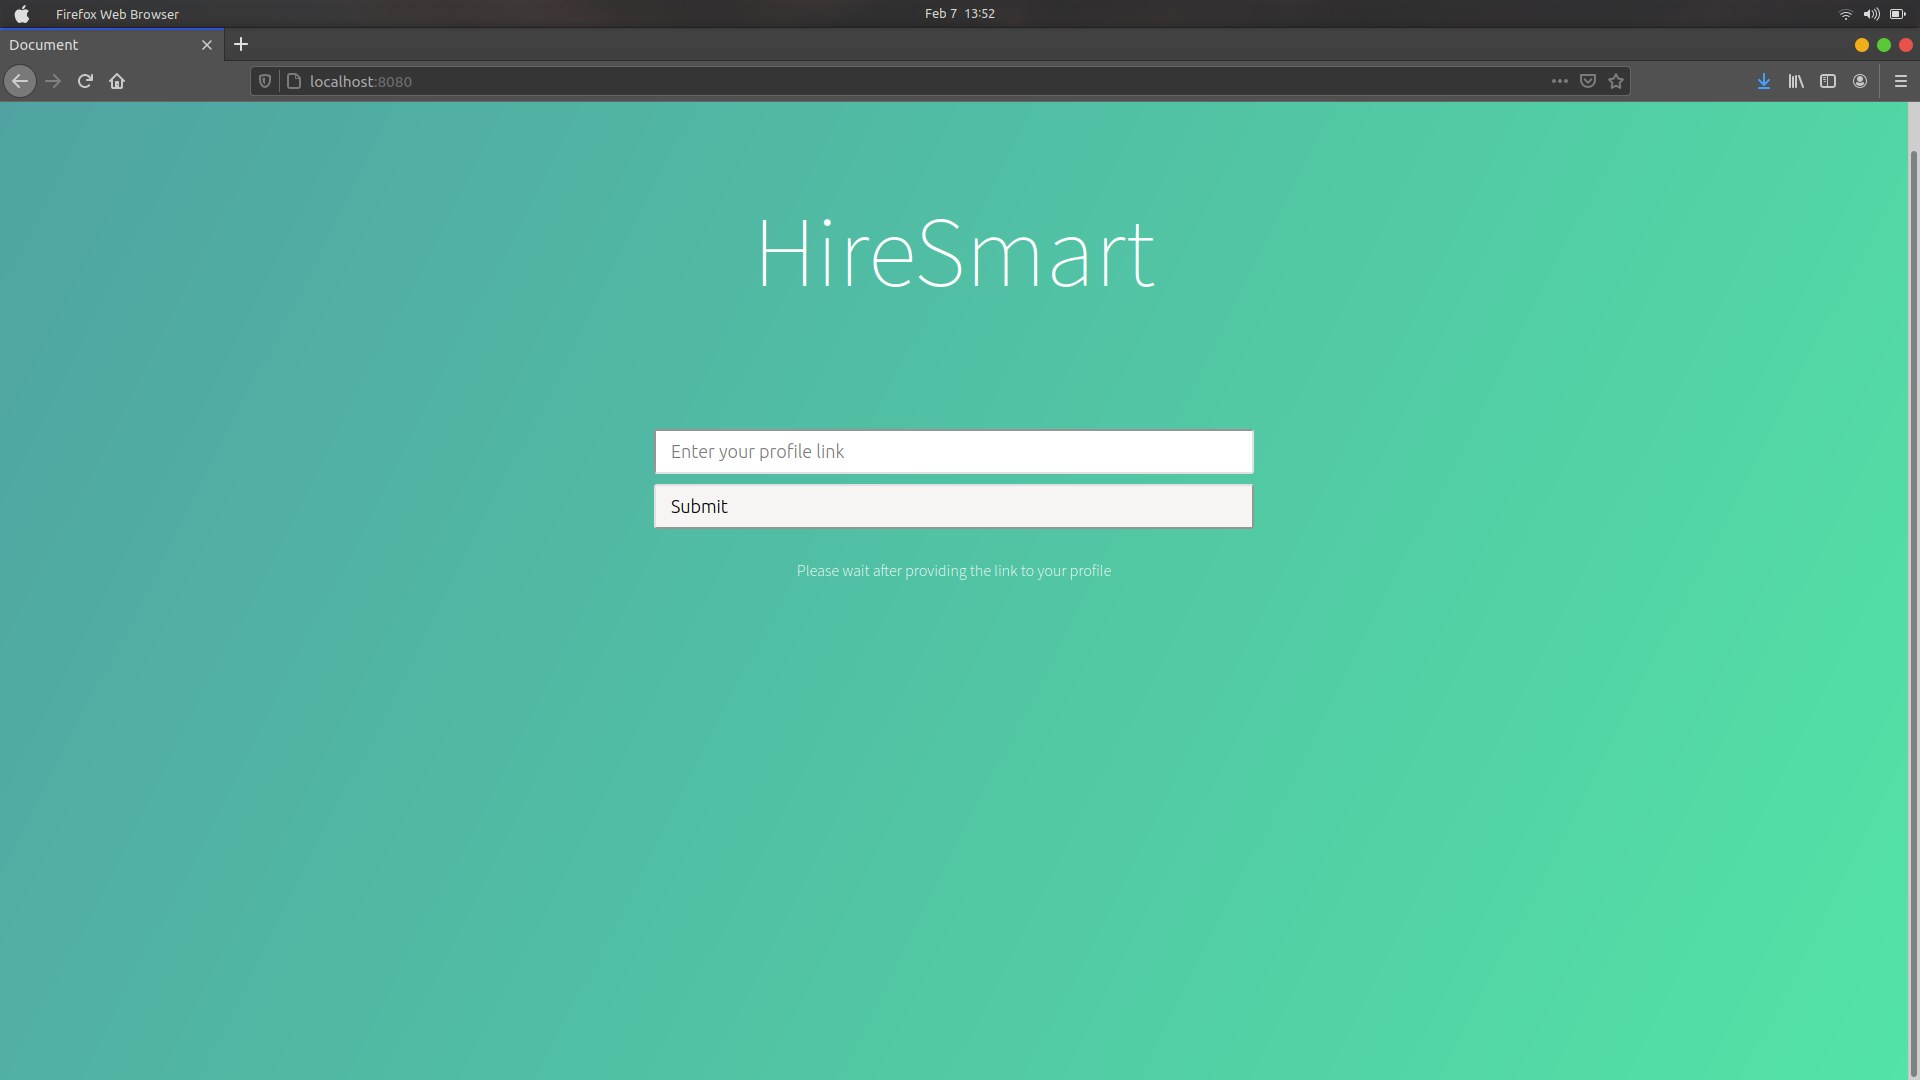
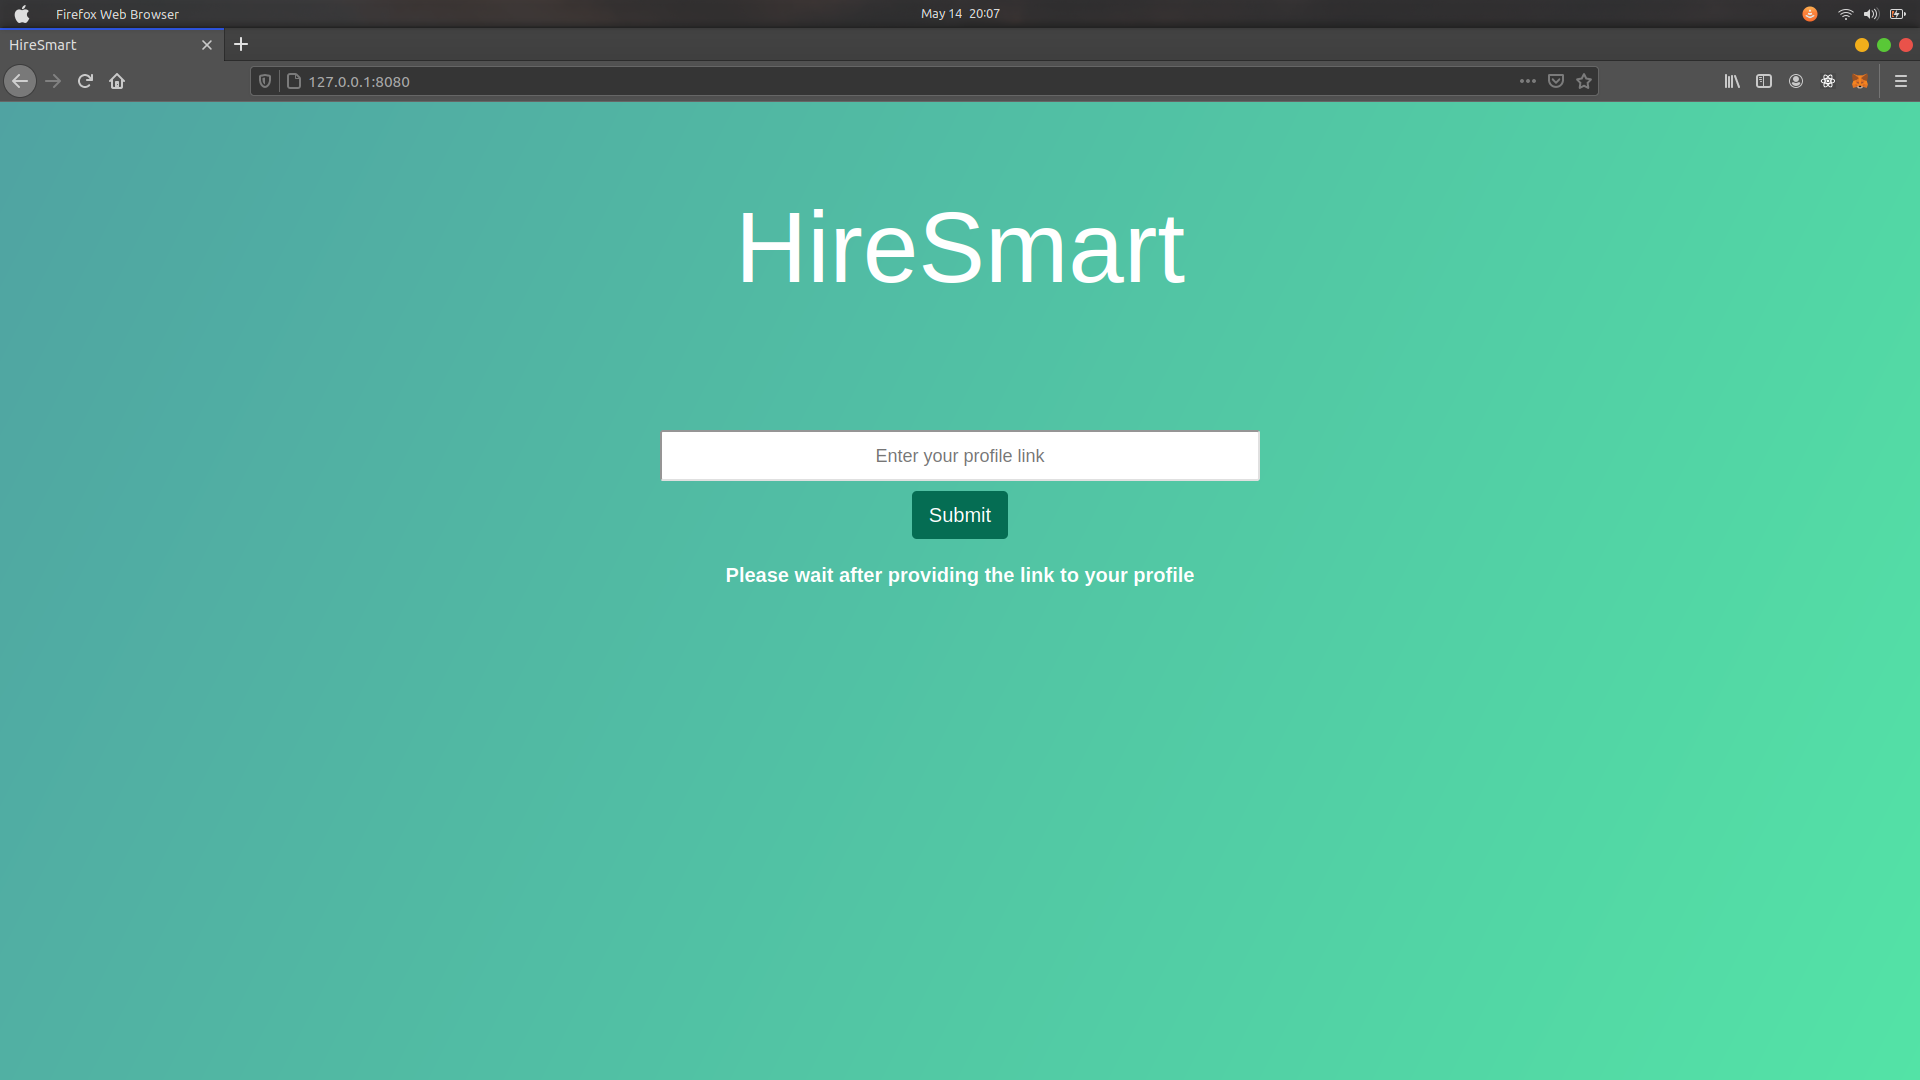
add warning message for invalid url

diff --git a/templates/index.html b/templates/index.html
@@ -6,7 +6,7 @@
     <meta name="viewport" content="width=device-width, initial-scale=1.0">
     <link rel="stylesheet" type="text/css" href="{{ url_for('static', filename='main.css') }}">
     <link rel="stylesheet" href="https://stackpath.bootstrapcdn.com/bootstrap/4.3.1/css/bootstrap.min.css">
-    <title>Document</title>
+    <title>HireSmart</title>
 </head>
 
 <body>
@@ -21,6 +21,13 @@
                 <br>
                 <h3 class="text-white" style="font-size: 20px; font-weight: bold;">Please wait after providing the link to your profile</span>
             </form>
+            {% with messages = get_flashed_messages() %} {% if messages %}
+            <ul class="flashes text-center" style="list-style: none;">
+                {% for message in messages %}
+                <li>{{ message }}</li>
+                {% endfor %}
+            </ul>
+            {% endif %} {% endwith %}
         </div>
     </div>
 

diff --git a/main.py b/main.py
@@ -1,4 +1,5 @@
-from flask import Flask, render_template, request
+from os import error
+from flask import Flask, flash, render_template, request
 from hackerearth_scraper import *
 
 mapquery = {
@@ -32,6 +33,7 @@ def score_queries(data, param):
 
 
 app = Flask(__name__)
+app.secret_key = os.urandom(24)
 
 @app.route("/", methods=['GET'])
 def index():
@@ -43,10 +45,13 @@ def result():
 
     if "hackerearth" in recruiter_url:
         scrape_hearth(recruiter_url)
+        data = read_data()
+        return render_template("out.html", profiles=data)
 
-    data = read_data()
+    error = "Please provide a valid HackerEarth profile link"
+    flash(error)
+    return render_template("index.html", error=error)
 
-    return render_template("out.html", profiles=data)
 
 @app.route("/query", methods=['POST'])
 def query():
@@ -59,4 +64,7 @@ def query():
     return render_template("out.html", profiles=query_data, sel=query_req)
 
 if __name__ == "__main__":
+    # app.secret_key = 'supersecretkey'
+    # app.config['SESSION_TYPE'] = 'filesystem'
+    # sess.init_app(app)
     app.run(host="127.0.0.1", port=8080, debug=True)
